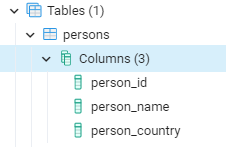
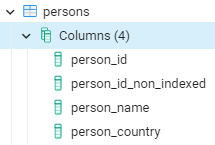
16.2 M3 + some Getting Started changes

diff --git a/site-flare/Content/rn/changelog.html b/site-flare/Content/rn/changelog.html
@@ -7,6 +7,63 @@
         <p>This section lists the changes that were made to <MadCap:variable name="General.CompanyName" /> products for <MadCap:variable name="Versions.product-version-short" />.x.<MadCap:conditionalText MadCap:conditions="Version.16-1-only"> This version is early access, so the documentation is in draft form and subject to change.</MadCap:conditionalText></p>
         <p MadCap:conditions="Version.16-0-only,Default.DoNotShow">There are no features and enhancements at this time. </p>
         <p>&#160;</p>
+        <div MadCap:conditions="Version.16-2-only">
+            <h1>16.2</h1>
+            <h2>Features and Enhancements</h2>
+            <p>&#160;</p>
+            <ul MadCap:conditions="NewSet.JustAnotherColorForDivs">
+                <li>
+                    <MadCap:snippetText src="../Resources/Snippets/Jira.flsnp" MadCap:snippetVariables="Links.JIRA-Id:GS-14741," />: Support CEF log messages</li>
+                <li MadCap:conditions="Default.DoNotShow">
+                    <MadCap:snippetText src="../Resources/Snippets/Jira.flsnp" MadCap:snippetVariables="Links.JIRA-Id:GS-14735," />: End of Life - Entry and MetaDataEntry</li>
+                <li MadCap:conditions="Default.DoNotShow">
+                    <MadCap:snippetText src="../Resources/Snippets/Jira.flsnp" MadCap:snippetVariables="Links.JIRA-Id:GS-14720," />: End of Life - GSIterator (use SpaceIterator instead)</li>
+                <li>
+                    <MadCap:snippetText src="../Resources/Snippets/Jira.flsnp" MadCap:snippetVariables="Links.JIRA-Id:GS-14711," />: Enhance replication to replicate drop type to backup</li>
+                <li MadCap:conditions="Default.DoNotShow">
+                    <MadCap:snippetText src="../Resources/Snippets/Jira.flsnp" MadCap:snippetVariables="Links.JIRA-Id:GS-14725," />: End of Life - Memcached integration</li>
+                <li>
+                    <MadCap:snippetText src="../Resources/Snippets/Jira.flsnp" MadCap:snippetVariables="Links.JIRA-Id:GS-14627," />: WEB-UI - Add audit information</li>
+                <li>
+                    <MadCap:snippetText src="../Resources/Snippets/Jira.flsnp" MadCap:snippetVariables="Links.JIRA-Id:GS-14723," />: Set Zeppelin Jdbc Interpreter to run with v3 driver</li>
+                <li>
+                    <MadCap:snippetText src="../Resources/Snippets/Jira.flsnp" MadCap:snippetVariables="Links.JIRA-Id:GS-14688," />: Java 17 support</li>
+                <li MadCap:conditions="Default.DoNotShow">
+                    <MadCap:snippetText src="../Resources/Snippets/Jira.flsnp" MadCap:snippetVariables="Links.JIRA-Id:GS-14721,">
+                    </MadCap:snippetText>: End of Life - JMS Integration</li>
+                <li MadCap:conditions="Default.DoNotShow">
+                    <MadCap:snippetText src="../Resources/Snippets/Jira.flsnp" MadCap:snippetVariables="Links.JIRA-Id:GS-14706,">
+                    </MadCap:snippetText>: End of Life - ESM/EPU</li>
+                <li MadCap:conditions="Default.DoNotShow">
+                    <MadCap:snippetText src="../Resources/Snippets/Jira.flsnp" MadCap:snippetVariables="Links.JIRA-Id:GS-14713,">
+                    </MadCap:snippetText>: End of Life - Scala REPL tool</li>
+                <li>
+                    <MadCap:snippetText src="../Resources/Snippets/Jira.flsnp" MadCap:snippetVariables="Links.JIRA-Id:GS-14624,">
+                    </MadCap:snippetText>: Add ability to support https connection to influxdb</li>
+                <li MadCap:conditions="Default.DoNotShow">
+                    <MadCap:snippetText src="../Resources/Snippets/Jira.flsnp" MadCap:snippetVariables="Links.JIRA-Id:GS-14705,">
+                    </MadCap:snippetText>: End of Life - ElasticGrid</li>
+                <li MadCap:conditions="Default.DoNotShow">
+                    <MadCap:snippetText src="../Resources/Snippets/Jira.flsnp" MadCap:snippetVariables="Links.JIRA-Id:GS-14704,">
+                    </MadCap:snippetText>: End of Life - Mule integration</li>
+                <li MadCap:conditions="Default.DoNotShow">
+                    <MadCap:snippetText src="../Resources/Snippets/Jira.flsnp" MadCap:snippetVariables="Links.JIRA-Id:GS-14703,">
+                    </MadCap:snippetText>: End of Life - AnalyticsXtreme</li>
+                <li>
+                    <MadCap:snippetText src="../Resources/Snippets/Jira.flsnp" MadCap:snippetVariables="Links.JIRA-Id:GS-14570," />: upgrade commons-compress to latest version 1.21</li>
+            </ul>
+            <h2>Resolved Issues</h2>
+            <div MadCap:conditions="NewSet.YetAnotherColorForDivs,Default.DoNotShow">
+                <ul MadCap:conditions="NewSet.JustAnotherColorForDivs">
+                    <li>
+                        <MadCap:snippetText src="../Resources/Snippets/Jira.flsnp" MadCap:snippetVariables="Links.JIRA-Id:GS-14615," />: Chaining aggregators logic not working with GroupByAggregator in 15.8.1 version</li>
+                </ul>
+            </div>
+            <p>There are no resolved issues at this time. </p>
+            <h2>Known Issues</h2>
+            <p>There are no known issues at this time.</p>
+            <p>&#160;</p>
+        </div>
         <div MadCap:conditions="Version.16-1-only">
             <h1>16.1</h1>
             <h2>Features and Enhancements</h2>

diff --git a/site-flare/Content/early-access.html b/site-flare/Content/early-access.html
@@ -10,7 +10,7 @@
             <p><a href="https://www.gigaspaces.com/download-center">Download</a> | <a href="https://docs.gigaspaces.com/latest/landing.html">Documentation</a></p>
         </div>
         <div MadCap:conditions="NewSet.JustAColorForDivs">
-            <h1>16.2.0 M3 (December-05-2021)</h1>
+            <h1>16.2.0 M3 (December-06-2021)</h1>
             <h2>Download Links</h2>
             <p>&#160;</p>
             <ul>
@@ -27,13 +27,13 @@
             <ul MadCap:conditions="NewSet.JustAnotherColorForDivs">
                 <li>
                     <MadCap:snippetText src="Resources/Snippets/Jira.flsnp" MadCap:snippetVariables="Links.JIRA-Id:GS-14741," />: Support CEF log messages</li>
-                <li>
+                <li MadCap:conditions="Default.DoNotShow">
                     <MadCap:snippetText src="Resources/Snippets/Jira.flsnp" MadCap:snippetVariables="Links.JIRA-Id:GS-14735," />: End of Life - Entry and MetaDataEntry</li>
-                <li>
+                <li MadCap:conditions="Default.DoNotShow">
                     <MadCap:snippetText src="Resources/Snippets/Jira.flsnp" MadCap:snippetVariables="Links.JIRA-Id:GS-14720," />: End of Life - GSIterator (use SpaceIterator instead)</li>
                 <li>
                     <MadCap:snippetText src="Resources/Snippets/Jira.flsnp" MadCap:snippetVariables="Links.JIRA-Id:GS-14711," />: Enhance replication to replicate drop type to backup</li>
-                <li>
+                <li MadCap:conditions="Default.DoNotShow">
                     <MadCap:snippetText src="Resources/Snippets/Jira.flsnp" MadCap:snippetVariables="Links.JIRA-Id:GS-14725," />: End of Life - Memcached integration</li>
                 <li>
                     <MadCap:snippetText src="Resources/Snippets/Jira.flsnp" MadCap:snippetVariables="Links.JIRA-Id:GS-14627," />: WEB-UI - Add audit information</li>
@@ -41,25 +41,25 @@
                     <MadCap:snippetText src="Resources/Snippets/Jira.flsnp" MadCap:snippetVariables="Links.JIRA-Id:GS-14723," />: Set Zeppelin Jdbc Interpreter to run with v3 driver</li>
                 <li>
                     <MadCap:snippetText src="Resources/Snippets/Jira.flsnp" MadCap:snippetVariables="Links.JIRA-Id:GS-14688," />: Java 17 support</li>
-                <li>
+                <li MadCap:conditions="Default.DoNotShow">
                     <MadCap:snippetText src="Resources/Snippets/Jira.flsnp" MadCap:snippetVariables="Links.JIRA-Id:GS-14721,">
                     </MadCap:snippetText>: End of Life - JMS Integration</li>
-                <li>
+                <li MadCap:conditions="Default.DoNotShow">
                     <MadCap:snippetText src="Resources/Snippets/Jira.flsnp" MadCap:snippetVariables="Links.JIRA-Id:GS-14706,">
                     </MadCap:snippetText>: End of Life - ESM/EPU</li>
-                <li>
+                <li MadCap:conditions="Default.DoNotShow">
                     <MadCap:snippetText src="Resources/Snippets/Jira.flsnp" MadCap:snippetVariables="Links.JIRA-Id:GS-14713,">
                     </MadCap:snippetText>: End of Life - Scala REPL tool</li>
                 <li>
                     <MadCap:snippetText src="Resources/Snippets/Jira.flsnp" MadCap:snippetVariables="Links.JIRA-Id:GS-14624,">
                     </MadCap:snippetText>: Add ability to support https connection to influxdb</li>
-                <li>
+                <li MadCap:conditions="Default.DoNotShow">
                     <MadCap:snippetText src="Resources/Snippets/Jira.flsnp" MadCap:snippetVariables="Links.JIRA-Id:GS-14705,">
                     </MadCap:snippetText>: End of Life - ElasticGrid</li>
-                <li>
+                <li MadCap:conditions="Default.DoNotShow">
                     <MadCap:snippetText src="Resources/Snippets/Jira.flsnp" MadCap:snippetVariables="Links.JIRA-Id:GS-14704,">
                     </MadCap:snippetText>: End of Life - Mule integration</li>
-                <li>
+                <li MadCap:conditions="Default.DoNotShow">
                     <MadCap:snippetText src="Resources/Snippets/Jira.flsnp" MadCap:snippetVariables="Links.JIRA-Id:GS-14703,">
                     </MadCap:snippetText>: End of Life - AnalyticsXtreme</li>
                 <li>

diff --git a/site-flare/Content/started/getting-started-with-gigaspaces-smartcache.html b/site-flare/Content/started/getting-started-with-gigaspaces-smartcache.html
@@ -68,17 +68,23 @@
         <h2>Install Postgres </h2>
         <p><a href="https://www.postgresql.org/download/">Install Postgres on your PC</a>. Be sure to include the pgAdmin component of Postgres.</p>
         <h2>Create a Postgres Database with Some Sample Data</h2>
-        <p>Using the pgAdmin tool, under the default database of postgres, create the Persons table and add a few records, as follows:</p><pre><code class="language-sql">
-        CREATE TABLE persons
-            (person_id int  PRIMARY KEY,
-             person_name  char(30),
-             person_country char(30));
-        INSERT INTO
-            (person_id , person_name, person_country)
-        VALUES 
-            (1, 'John Jones', 'USA'),
-            (2, 'Jane Smith', 'UK'),
-            (3, 'Betty Brown', 'Australia')
+        <p>Using the pgAdmin tool, under the default database of postgres, create the Persons table and run the following commands to create 100,000 similar records. We will use these records later to test the speed of a SQL query.</p><pre><code class="language-sql">
+drop table persons;
+CREATE TABLE persons
+   (person_id int  PRIMARY KEY,
+    person_id_non_indexed int,
+    person_name  char(30),
+    person_country char(30));
+delete from Persons;
+do $$
+    begin
+        for r in 1..100000 loop
+            insert into Persons (person_id , person_id_non_indexed, person_name, person_country) 
+            VALUES (r,r,concat('Person ', r), concat('Country ',r));
+        end loop;
+    end;
+$$;
+select * from Persons limit(10);
  </code></pre>
         <p>The table schema looks like this:</p>
         <p>
@@ -86,7 +92,7 @@
         </p>
         <p>The table data appears as follows:</p>
         <p>
-            <img src="../Resources/Images/gs-with-smartcache-persons-table-2.png" style="width: 390px;height: 166px;" />
+            <img src="../Resources/Images/gs-with-smartcache-persons-table-2.png" />
         </p>
         <h2>Obtain the Connection String</h2>
         <p>The connection string of the database is used by GigaSpaces and Java JDBC programs to access the database. The connection string can be accessed as follows:</p>
@@ -115,11 +121,15 @@
         <p>
             <img src="../Resources/Images/gs-with-smartcache-ops-manager-data-connectivity-select-data-source.png" />
         </p>
-        <p>Enter the connection string for the Postgres database, and the Postgres user/password, and press <b>Next</b>:</p>
+        <p>Enter the connection string for the Postgres database, and the Postgres user/password. , and press</p>
         <p>
             <img src="../Resources/Images/gs-with-smartcache-ops-manager-data-connectivity-connection-string.png" />
         </p>
-        <p>The Persons table will display:</p>
+        <p>In the Advanced section, remove the limit of the number of records in the Space:</p>
+        <p>
+            <img src="../Resources/Images/gs-with-smartcache-remove-row-limit.png" style="width: 357px;height: 197px;" />
+        </p>
+        <p>Press <b>Next</b> and the Persons table will display:</p>
         <p>
             <img src="../Resources/Images/gs-with-smartcache-ops-manager-data-connectivity-persons-table.png" />
         </p>
